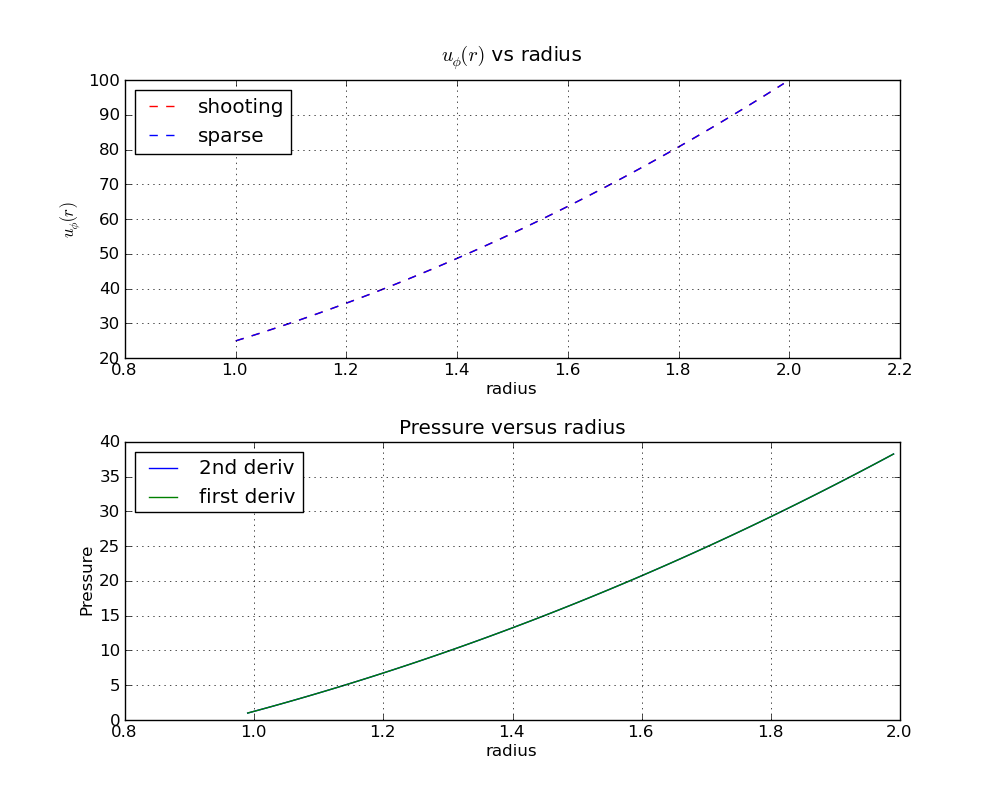
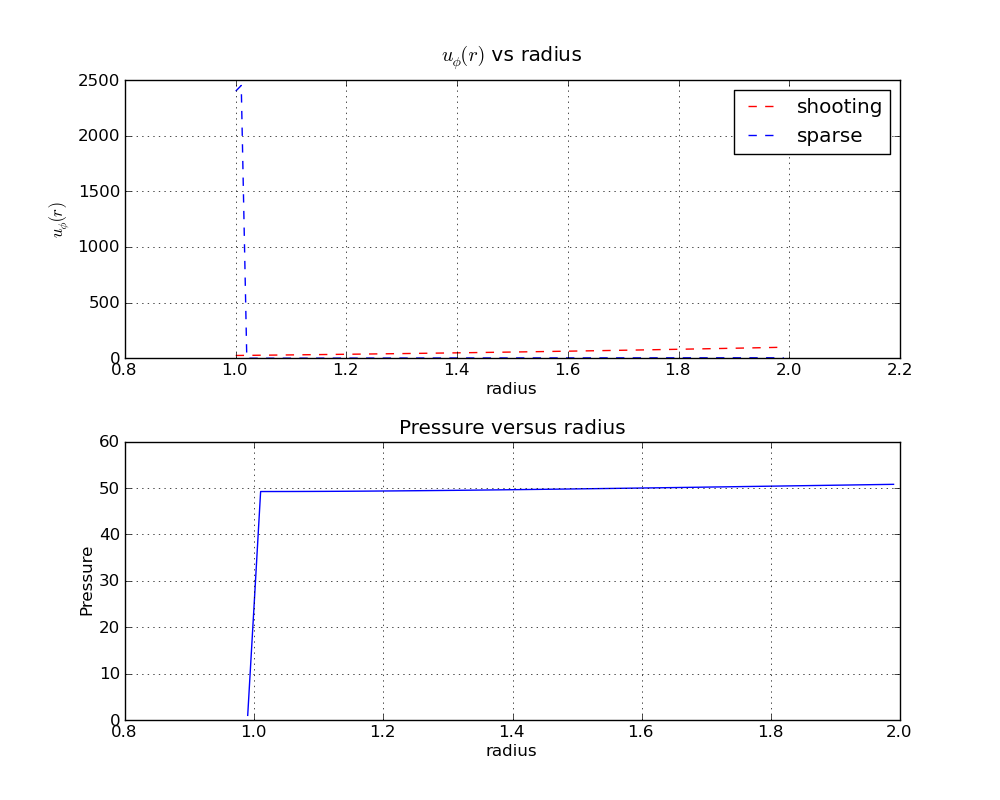
working on 2d

diff --git a/poisson1d_2.c b/poisson1d_2.c
@@ -40,13 +40,7 @@ void open_file(){
 
 double delta_r(int position){
     double value;
-    if(position==1){
-        value = (d1uphi[position-1] - (radius[position-1]*Wi))/(grid_spacing[0]);
-    }else if(position==(P_size + 1)){       
-        value = ((radius[position]*Wo) - d1uphi[position-2])/(grid_spacing[0]); 
-    }else{
-        value = (d1uphi[position-1] - d1uphi[position-2])/(grid_spacing[0]); 
-    }
+    value = (d1uphi[position-1] - d1uphi[position-2])/(grid_spacing[0]); 
     //printf("derivative = %f, d1uphi[%d] = %f \n", value, position, d1uphi[position]);
     return value;
 }
@@ -59,18 +53,19 @@ void set_radius(){
 }
 
 void fill_source(){
-    int i;
-    for(i=0; i<(P_size+1); i++){
-        
-        if(i==0){
+    int i, position;
+    for(i=0; i<(P_size*(P_size+1)); i++){
+        position = i/P_size;
+        if(i<P_size){
             source[i] = Pinner;
-        }else if(i==1){
-
-            source[i] = d1uphi[i-1]*d1uphi[i-1]/radius[i];
+        }else if(i>=P_size && i<(2*P_size)){
+            source[i] = d1uphi[position-1]*d1uphi[position-1]/radius[position];
+            //printf("here \n");
+            //source[i] = 1.25;
         }else{
-            source[i] = 2.0*d1uphi[i-1]*delta_r(i)/radius[i];
+            source[i] = 2.0*d1uphi[position-1]*delta_r(position)/radius[position];
         }
-        printf("source[%d] = %f, radius = %f \n ", i, source[i], radius[i]);
+        printf("source[%d] = %f, radius = %f \n ", i, source[i], radius[position]);
 
     }
     
@@ -79,7 +74,7 @@ void fill_source(){
 void finite_difference(){
     int i;
     for(i=0; i<(P_size); i++){
-        double value = radius[i+1]*((source[i+1] - source[i]))/(grid_spacing[0]);
+        double value = radius[i+1]*((source[((i+1)*P_size)] - source[i*P_size]))/(grid_spacing[0]);
         uphi_new[i] = value;
         //printf("value = %f, uphinew[%d] = %f \n", value, i, uphi_new[i]);
     }
@@ -90,11 +85,11 @@ void finite_difference(){
 
 void sparse(){
     
-    const int M = 101;
-    const int N = 101;
+    const int M = P_size*(P_size+1);
+    const int N = P_size*(P_size+1);
     int i;
     // Declare an MxN matrix which can hold up to three band-diagonals.
-    struct cs_sparse *triplet = cs_spalloc(M, N, 3*N, 1, 1);
+    struct cs_sparse *triplet = cs_spalloc(M, N, 5*N, 1, 1);
     
     
     // Fill the diagonal, and the band above and below the diagonal with some
@@ -102,28 +97,57 @@ void sparse(){
     
     
     for (i=0; i<M; i++) {
+        double radius1 = radius[i/P_size];
         double a, c, e, d, b;
         double deltar2 = 1.0/(grid_spacing[0]*grid_spacing[0]);
-        double deltar_r = 1.0/(radius[i]*grid_spacing[0]);
+        double deltar_r = 1.0/(radius1*grid_spacing[0]);                   
 
-        a = deltar2;
-        c = -((2.0*deltar2) + (deltar_r));
-        e = deltar2 + deltar_r;
         
         
-        if(i==0){
+        
+        if(i<P_size){
             cs_entry(triplet, i, i, 1.0);
 
-        }else if(i==1){
-            d = 1.0/grid_spacing[0];
+        }else if(i>=P_size && i<(2*P_size)){
+            d = (1.0/grid_spacing[0]);
             b = -1.0*d;
             
-            cs_entry(triplet, i, i-1, b);
-            cs_entry(triplet, i, i, d);
-            
+            //cs_entry(triplet, i, (i-P_size), b);
+            //cs_entry(triplet, i, i, d);
+            cs_entry(triplet, i, i, 1.0);
+            printf(" d = %f, b = %f position i-P_size = %d , i = %d \n",d, b, i-P_size, i);
         }else{
-            cs_entry(triplet, i, i-2, a);
-            cs_entry(triplet, i, i-1, c);
+            a = deltar2;
+            
+            c = -((2.0*deltar2) + (deltar_r));
+            
+            //e = deltar2 + deltar_r - (2.0/(radius1*radius1*grid_spacing[1]*grid_spacing[1]));
+            e = deltar2 + deltar_r +(1.0/(radius1*radius1*grid_spacing[1]*grid_spacing[1]));
+            
+            
+            //d = 1.0/(radius1*radius1*grid_spacing[1]*grid_spacing[1]);
+            //b = -1.0*d;
+            d = 1.0/(radius1*radius1*grid_spacing[1]*grid_spacing[1]); //for P_i, j-2
+            b = -2.0*d; //for P_i, j-1
+            if(i%P_size==0){
+                cs_entry(triplet, i, i+(P_size-1), b);
+                cs_entry(triplet, i, i+(P_size-2), d);
+            }else if((i-1)%P_size==0){
+                cs_entry(triplet, i, i-1, b);
+                cs_entry(triplet, i, i+(P_size-1), d);
+            }else{
+                cs_entry(triplet, i, i-1, b);
+                cs_entry(triplet, i, i-2, d);
+            }
+            
+            /*if((i + 1)%P_size==0){
+                cs_entry(triplet, i, i-(P_size - 1), d);
+            }else{
+                cs_entry(triplet, i, i-2, d);
+            }*/
+
+            cs_entry(triplet, i, i-(2*P_size), a);
+            cs_entry(triplet, i, i-(1*P_size), c);
             cs_entry(triplet, i, i, e);
         }
         
@@ -154,7 +178,7 @@ int main()
 // -----------------------------------------------------------------------------
 {
     //for a 100x100 array, but have 1 ghost cell  for bcs
-    
+    //have a 100x100 pressure aray
     P_size = 100;
     int i;
 
@@ -170,7 +194,7 @@ int main()
     radius = (double*) malloc((P_size+1)*sizeof(double));
 
 
-    source = (double*) malloc((P_size+1)*sizeof(double));
+    source = (double*) malloc(P_size*(P_size+1)*sizeof(double));
     
     open_file();
     
@@ -189,9 +213,13 @@ int main()
     // Print the solution vector.
     output=fopen("pressure.txt", "w");
     
-    for (i=0; i<(P_size+1); i++) {
+    for (i=0; i<(P_size*(P_size+1)); i++) {
         printf("source[%d] = %+5.4e\n", i, source[i]);
-        fprintf(output, "%+5.4e \n", source[i]);
+        if(i%P_size==0){
+            
+            fprintf(output, "%+5.4e \n", source[i]);
+        }
+        
     }
     
     finite_difference();

diff --git a/poisson_solver.py b/poisson_solver.py
@@ -9,7 +9,7 @@ import math as math
 uphi_shooting = np.loadtxt('Uphi2.txt',skiprows=0 , unpack=True)
 uphi_sparse = np.loadtxt('uphi_new.txt',skiprows=0 , unpack=True)
 pressure = np.loadtxt('pressure.txt',skiprows=0 , unpack=True)
-pressure2 = np.loadtxt('pressured1.txt',skiprows=0 , unpack=True)
+##pressure2 = np.loadtxt('pressured1.txt',skiprows=0 , unpack=True)
 
 
 radius = []
@@ -50,8 +50,8 @@ ax1.set_title(r'$u_{\phi}(r)$ vs radius')
 ax2 = fig1.add_subplot(2,1,2)
 ax2.set_xlim(0.8, 2.2)
 ax2.plot(radius2, pressure, 'b', label = '2nd deriv')
-ax2.plot(radius2, pressure2, 'g', label = 'first deriv')
-ax2.legend(loc = 'best')
+##ax2.plot(radius2, pressure2, 'g', label = 'first deriv')
+##ax2.legend(loc = 'best')
 ax2.grid()
 ax2.set_xlabel('radius')
 ax2.set_ylabel('Pressure')
